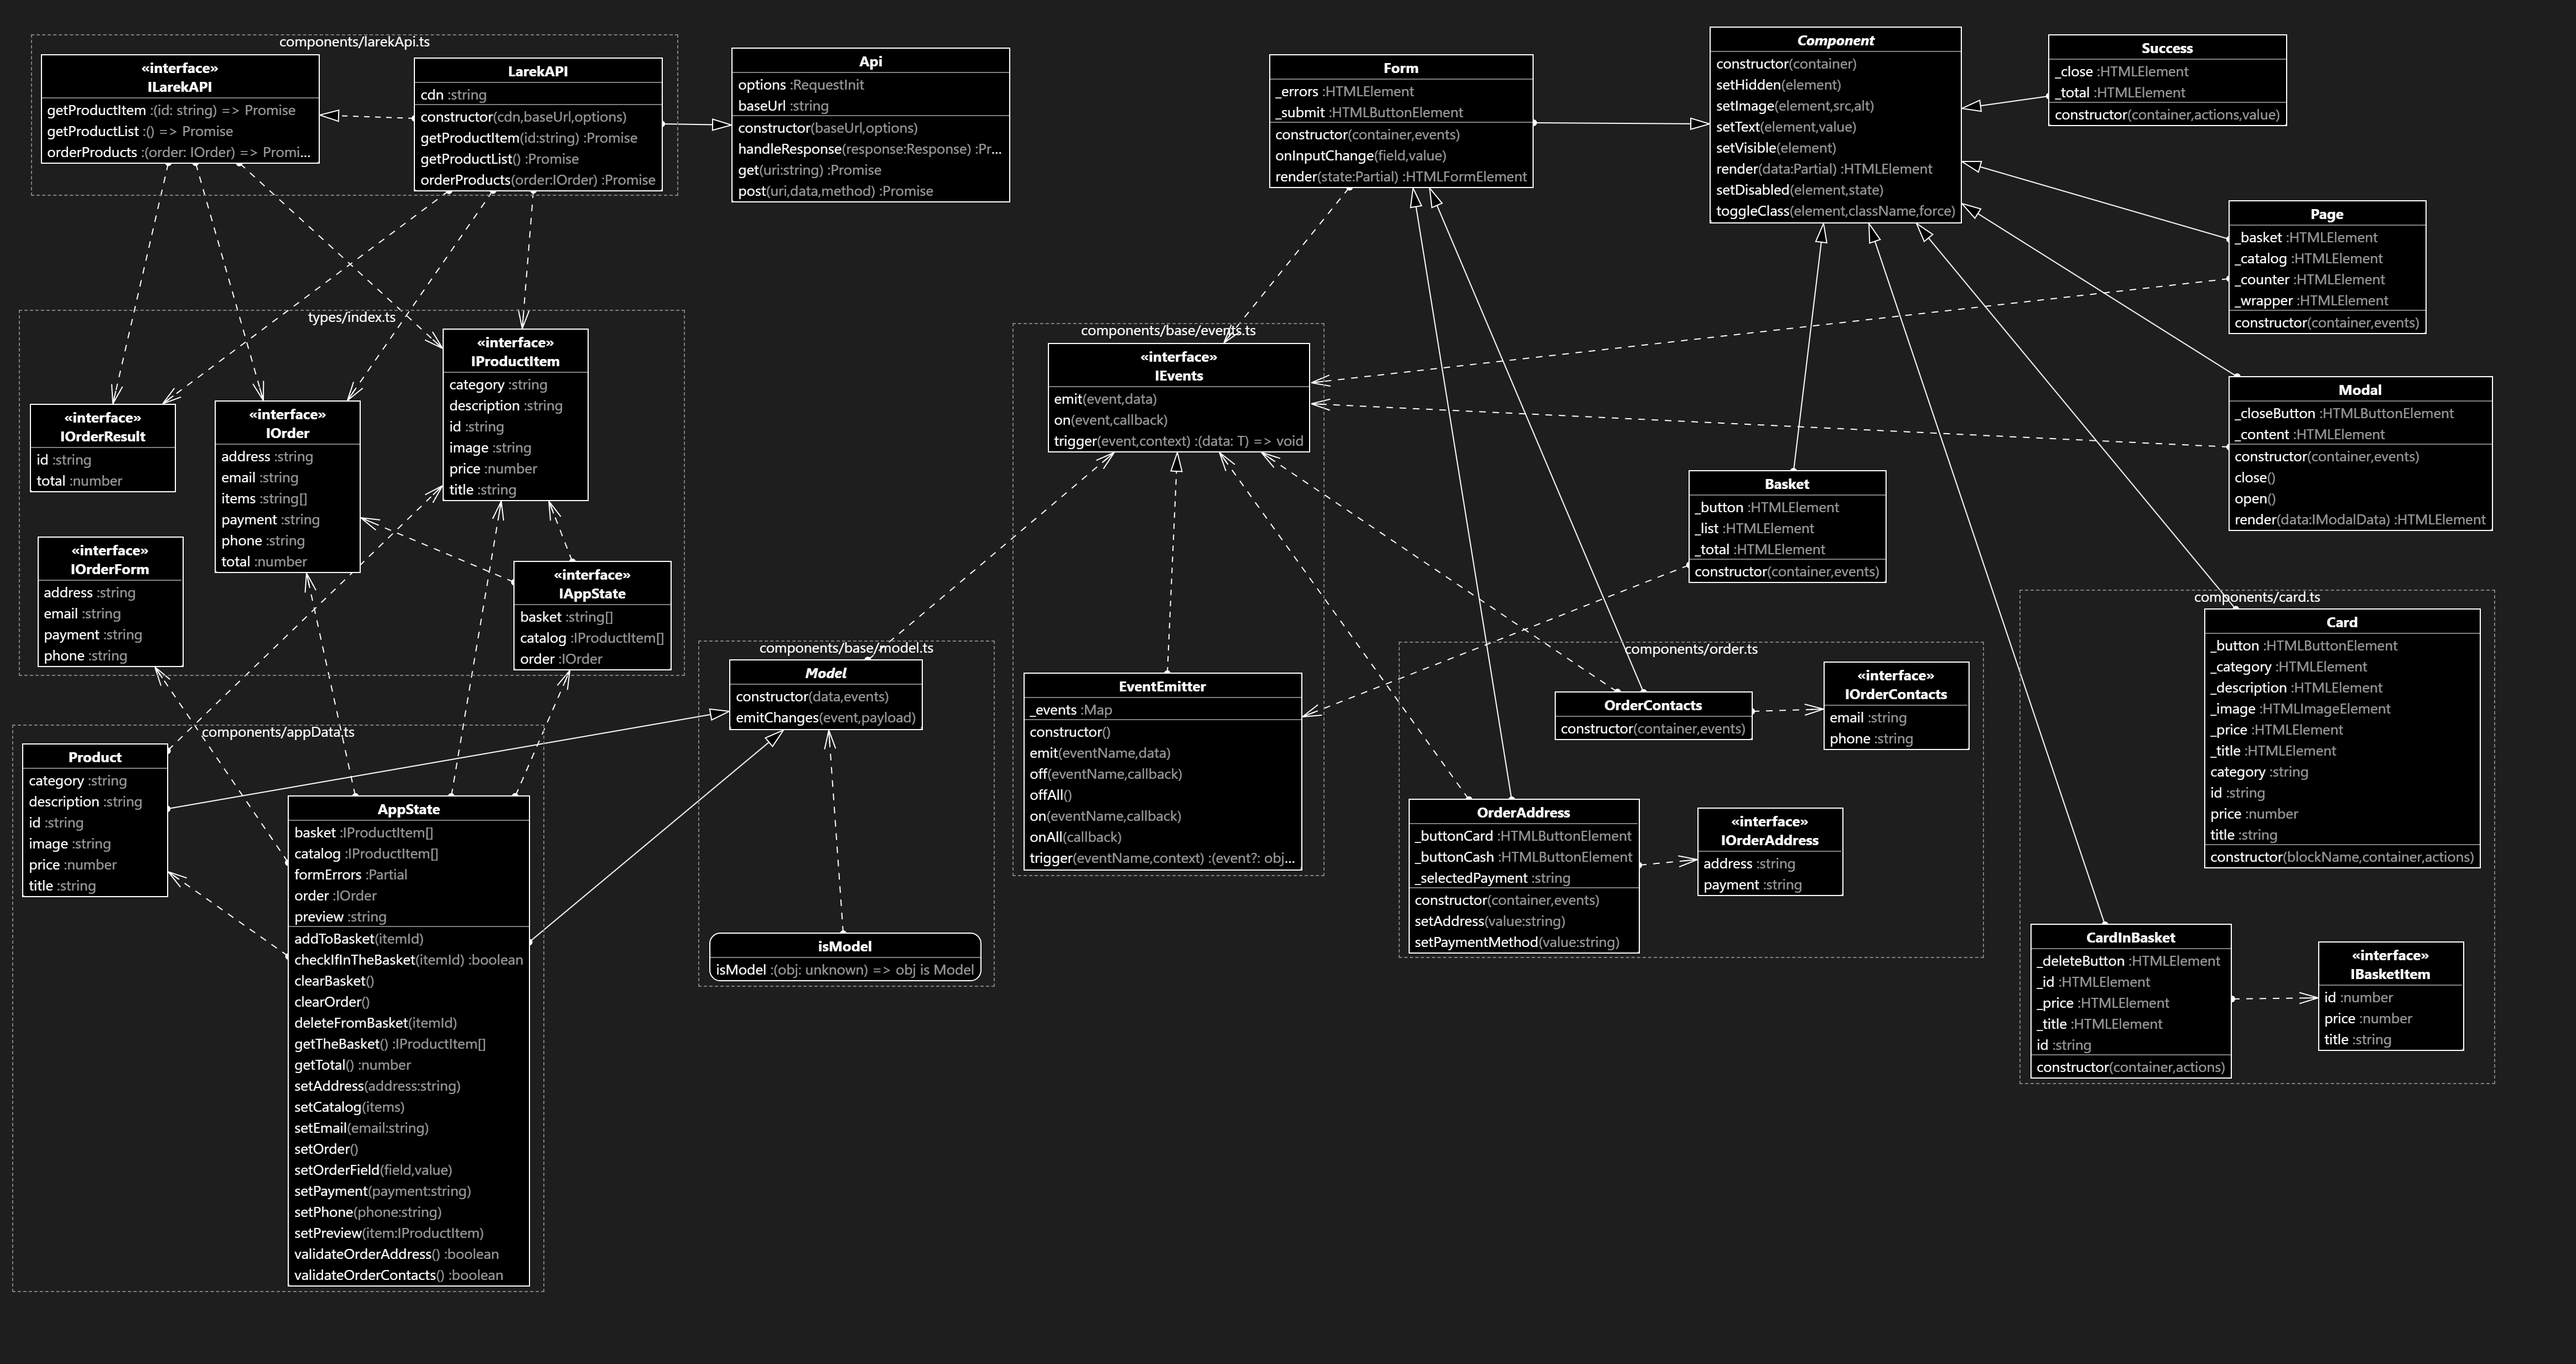
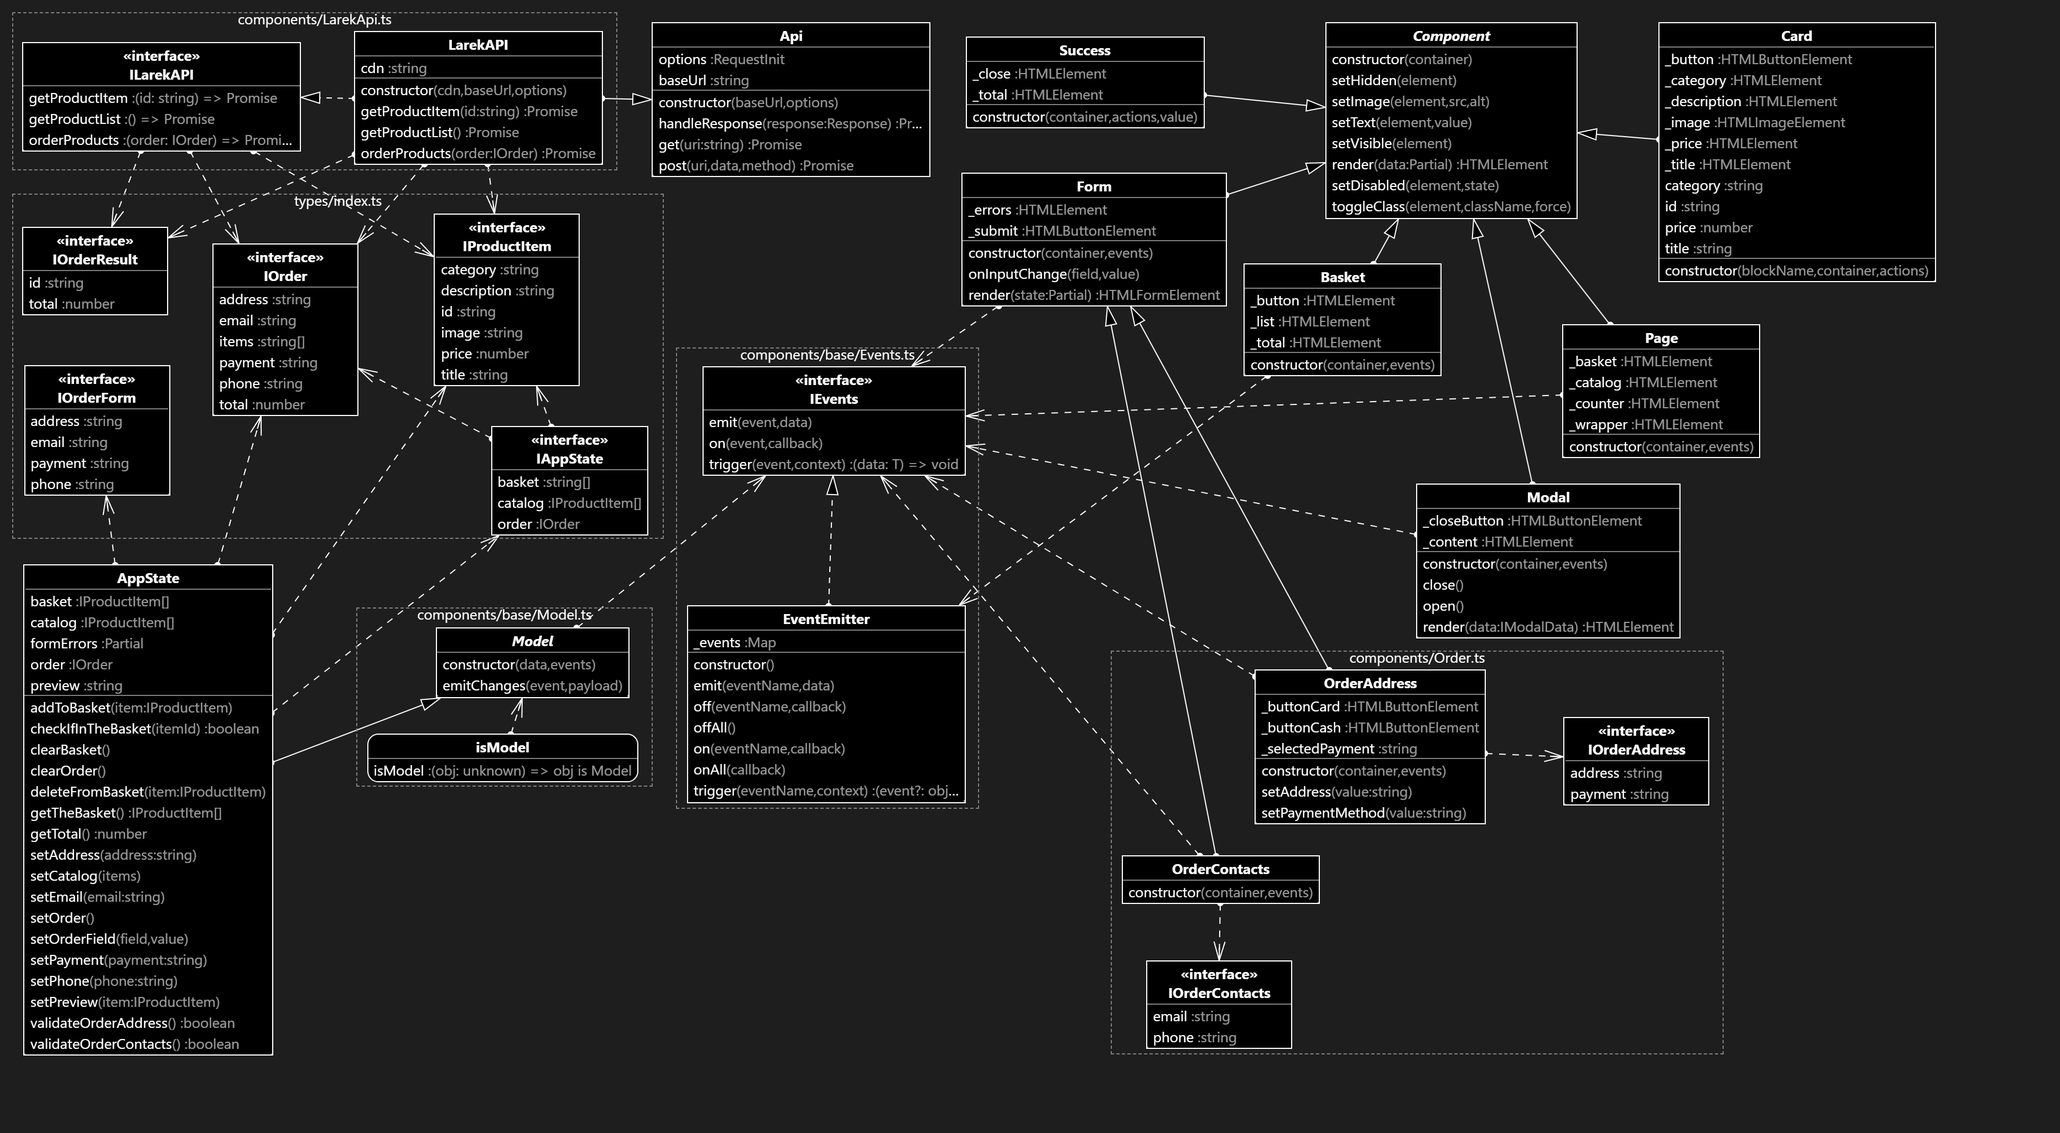
git cache cleared

diff --git a/src/index.ts b/src/index.ts
@@ -1,17 +1,17 @@
 import './scss/styles.scss';
 
 import { API_URL, CDN_URL } from "./utils/constants";
-import { EventEmitter } from "./components/base/events";
-import { AppState, CatalogChangeEvent, Product } from "./components/appData";
-import { Page } from "./components/page";
-import { Card, CardInBasket } from "./components/card";
+import { EventEmitter } from "./components/base/Events";
+import { AppState, CatalogChangeEvent } from "./components/AppData";
+import { Page } from "./components/Page";
+import { Card } from "./components/Card";
 import { cloneTemplate, ensureElement } from "./utils/utils";
-import { Modal } from "./components/common/modal";
-import { Basket } from "./components/common/basket";
-import { OrderContacts, OrderAddress } from "./components/order";
-import { Success } from "./components/common/success";
-import { LarekAPI } from "./components/larekApi";
-import { IOrderForm } from './types';
+import { Modal } from "./components/common/Modal";
+import { Basket } from "./components/Basket";
+import { OrderContacts, OrderAddress } from "./components/Order";
+import { Success } from "./components/Success";
+import { LarekAPI } from "./components/LarekApi";
+import { IOrderForm, IProductItem } from './types';
 
 const events = new EventEmitter();
 const api = new LarekAPI(CDN_URL, API_URL);
@@ -59,7 +59,7 @@ events.on<CatalogChangeEvent>('items:changed', () => {
 });
 
 // Открыть лот
-events.on('card:select', (item: Product) => {
+events.on('card:select', (item: IProductItem) => {
     console.log('карточка открыта');
     appData.setPreview(item);
 });
@@ -76,7 +76,7 @@ const changePageCounter = () => {
 }
 
 // Добавление в корзину
-events.on('basket:added', (item: Product) => {
+events.on('basket:added', (item: IProductItem) => {
     console.log('Item added to basket:', item);
     appData.addToBasket(item);
     changePageCounter();
@@ -84,7 +84,7 @@ events.on('basket:added', (item: Product) => {
 })
 
 // Удаление из корзины
-events.on('basket:deleted', (item: Product) => {
+events.on('basket:deleted', (item: IProductItem) => {
     console.log('Item deleted from basket:', item);
     appData.deleteFromBasket(item);
     events.emit('basket:changed');
@@ -99,7 +99,7 @@ events.on('basket:changed', () => {
     console.log(total);
 
     const cardsInBasket = basketItems.map((item, i) => {
-        const cardBasket = new CardInBasket(cloneTemplate(cardBasketTemplate), {
+        const cardBasket = new Card('card', cloneTemplate(cardBasketTemplate), {
             onClick: () => {
                 events.emit('basket:deleted', item);
                 console.log('card deleted');
@@ -107,7 +107,7 @@ events.on('basket:changed', () => {
         });
 
         return cardBasket.render({
-            id: i + 1,
+            id: String(i + 1),
             title: item.title,
             price: item.price,
         });
@@ -123,8 +123,8 @@ events.on('basket:changed', () => {
     });
 
 // Изменен открытый выбранный лот
-events.on('preview:changed', (item: Product) => {
-  const showItem = (item: Product) => {
+events.on('preview:changed', (item: IProductItem) => {
+  const showItem = (item: IProductItem) => {
       const card = new Card('card', cloneTemplate(cardPreviewTemplate), {
         onClick: () => {
             if (appData.checkIfInTheBasket(item)) {
@@ -152,18 +152,7 @@ events.on('preview:changed', (item: Product) => {
           });
       };
 
-  if (item) {
-      api.getProductItem(item.id)
-          .then((result) => {
-              item.description = result.description;
-              showItem(item);
-          })
-          .catch((err) => {
-              console.error(err);
-          })
-  } else {
-      modal.close();
-  }
+        showItem(item);
 });
 
 // Открыть форму заказа с адресом и оплатой
@@ -232,24 +221,24 @@ events.on('contacts:submit', () => {
     api.orderProducts(appData.order)
         .then(() => {
                     modal.close();
-                    appData.clearOrder();
                     events.emit('order:success');
+                    appData.clearBasket();
+                    appData.clearOrder();     
+                    changePageCounter();             
                 })
         .catch(err => {
             console.error(err);
-        });
+        }); 
 })
 
 // Заказ успешно отправлен
 events.on('order:success', () => {
+    console.log('вызвали саксесс');
     const success = new Success(cloneTemplate(successTemplate), {
         onClick: () => {
             modal.close();
-            appData.clearBasket();
-            changePageCounter();
             window.location.href = '/';
         }}, appData.getTotal());
-
         modal.render({
             content: success.render({})
         });

diff --git a/src/components/Card.ts b/src/components/Card.ts
@@ -1,4 +1,4 @@
-import { Component } from "./base/component";
+import { Component } from "./base/Component";
 import { IProductItem } from "../types";
 import { ensureElement } from "../utils/utils";
 
@@ -6,7 +6,7 @@ interface ICardActions {
     onClick: (event: MouseEvent) => void;
 }
 
-export type ICard<T> = IProductItem & { 
+export type ICard = IProductItem & { 
   title?: string;
   image?: string;
   button?: string;
@@ -22,7 +22,7 @@ const category: Record<string, string> = {
   'кнопка': '_button' 
 }
 
-export class Card<T> extends Component<ICard<T>> {
+export class Card extends Component<ICard> {
     protected _title: HTMLElement;
     protected _image?: HTMLImageElement;
     protected _description?: HTMLElement;
@@ -34,11 +34,32 @@ export class Card<T> extends Component<ICard<T>> {
         super(container);
 
         this._title = ensureElement<HTMLElement>(`.${blockName}__title`, container);
-        this._image = ensureElement<HTMLImageElement>(`.${blockName}__image`, container);
         this._button = container.querySelector(`.${blockName}__button`);
-        this._description = container.querySelector(`.${blockName}__text`);
         this._price = ensureElement<HTMLElement>(`.${blockName}__price`, container);
-        this._category = ensureElement<HTMLElement>(`.${blockName}__category`, container);
+
+        // Проверяем наличие изображения
+        const imageElement = container.querySelector(`.${blockName}__image`);
+        if (imageElement instanceof HTMLImageElement) {
+            this._image = imageElement;
+        } else {
+            this._image = null;
+        }
+
+         // Проверяем наличие описания
+        const descriptionElement = container.querySelector(`.${blockName}__text`);
+        if (descriptionElement instanceof HTMLElement) {
+            this._description = descriptionElement;
+        } else {
+            this._description = null; 
+        }
+
+        // Проверяем наличие категории
+        const categoryElement = container.querySelector(`.${blockName}__category`);
+        if (categoryElement instanceof HTMLElement) {
+            this._category = categoryElement;
+        } else {
+            this._category = null; 
+        }
 
         // если есть кнопка - ловим клик по кнопке, если кнопки нет - ловим по карточке 
         if (actions?.onClick) {
@@ -72,7 +93,7 @@ export class Card<T> extends Component<ICard<T>> {
     }
 
     set image(value: string) {
-      this.setImage(this._image, value, this.title)
+        this.setImage(this._image, value, this.title);
     }
 
     set description(value: string | string[]) {
@@ -105,47 +126,5 @@ export class Card<T> extends Component<ICard<T>> {
 
     get category(): string {
       return this._category.textContent || '';
-  }
-}
-
-export interface IBasketItem {
-  title: string;
-  price: number | null;
-  id: number;
-}
-
-export class CardInBasket extends Component<IBasketItem> {
-  protected _title: HTMLElement;
-  protected _price: HTMLElement;
-  protected _id: HTMLElement;
-  protected _deleteButton: HTMLElement;
-
-  constructor(container: HTMLElement, actions?: ICardActions) {
-      super(container);
-
-      this._title = ensureElement<HTMLElement>('.card__title', container);
-      this._price = ensureElement<HTMLElement>('.card__price', container);
-      this._id = ensureElement<HTMLElement>('.basket__item-index', container);
-      this._deleteButton = ensureElement<HTMLElement>('.basket__item-delete', container);
-
-      if (actions && actions.onClick) {
-          this._deleteButton.addEventListener('click', actions.onClick);
-      }
-  }
-
-  set title(value: string) {
-      this.setText(this._title, value);
-  }
-
-  set price(value: number) {
-      this.setText(this._price, `${value} синапсов`);
-  }
-
-  set id(value: string) {
-    this.setText(this._id, value);
-}
-
-  get id(): string {
-    return this._id.textContent || '';
   }
 }

diff --git a/src/components/AppData.ts b/src/components/AppData.ts
@@ -1,19 +1,10 @@
-import {Model} from "./base/model";
+import {Model} from "./base/Model";
 import {IProductItem, IOrder, IAppState, FormErrors, IOrderForm } from "../types";
 
 
 export type CatalogChangeEvent = {
     catalog: IProductItem[]
 };
-
-export class Product extends Model<IProductItem> {
-  id: string;
-  description: string;
-  image: string;
-  title: string;
-  category: string;
-  price: number | null;
-}
 
 export class AppState extends Model<IAppState> {
   catalog: IProductItem[];
@@ -29,13 +20,14 @@ export class AppState extends Model<IAppState> {
 };
   formErrors: FormErrors = {};
 
-  addToBasket(itemId: IProductItem): void {
-    if (!this.basket.includes(itemId)) {
-        this.basket.push(itemId);
-    }
-}
-  deleteFromBasket(itemId: IProductItem): void {
-    const index = this.basket.indexOf(itemId); 
+  addToBasket(item: IProductItem): void {
+    if (!this.basket.includes(item)) {
+        this.basket.push(item);
+    } 
+  }
+
+  deleteFromBasket(item: IProductItem): void {
+    const index = this.basket.indexOf(item); 
     if (index !== -1) {
         this.basket.splice(index, 1); 
     }
@@ -44,7 +36,6 @@ export class AppState extends Model<IAppState> {
   clearBasket(): void {
     this.basket = [];
     this.clearOrder();
-    this.emitChanges('basket:changed');
   }
 
   clearOrder(): void {
@@ -63,7 +54,8 @@ export class AppState extends Model<IAppState> {
   }
 
   setCatalog(items: IProductItem[]): void {
-    this.catalog = items.map(item => new Product(item, this.events));
+    // this.catalog = items.map(item => new Product(item, this.events));
+    this.catalog = items;
     this.events.emit('items:changed');
   }
 

diff --git a/src/components/Basket.ts b/src/components/Basket.ts
@@ -1,6 +1,6 @@
-import {Component} from "../base/component";
-import {createElement, ensureElement} from "../../utils/utils";
-import {EventEmitter} from "../base/events";
+import {Component} from "./base/Component";
+import {createElement, ensureElement} from "../utils/utils";
+import {EventEmitter} from "./base/Events";
 
 interface IBasketView {
     items: HTMLElement[];

diff --git a/src/components/common/Modal.ts b/src/components/common/Modal.ts
@@ -1,6 +1,6 @@
-import { Component } from "../base/component";
+import { Component } from "../base/Component";
 import { ensureElement } from "../../utils/utils";
-import { IEvents } from "../base/events";
+import { IEvents } from "../base/Events";
 
 interface IModalData {
     content: HTMLElement;

diff --git a/src/components/common/Form.ts b/src/components/common/Form.ts
@@ -1,5 +1,5 @@
-import { Component } from "../base/component";
-import {IEvents} from "../base/events";
+import { Component } from "../base/Component";
+import {IEvents} from "../base/Events";
 import {ensureElement} from "../../utils/utils";
 
 interface IFormState {

diff --git a/src/components/Page.ts b/src/components/Page.ts
@@ -1,5 +1,5 @@
-import {Component} from "./base/component";
-import {IEvents} from "./base/events";
+import {Component} from "./base/Component";
+import {IEvents} from "./base/Events";
 import {ensureElement} from "../utils/utils";
 
 interface IPage { 

diff --git a/src/components/Success.ts b/src/components/Success.ts
@@ -1,5 +1,5 @@
-import { Component } from "../base/component";
-import {ensureElement} from "../../utils/utils";
+import { Component } from "./base/Component";
+import {ensureElement} from "../utils/utils";
 
 interface ISuccess {
     total: number;

diff --git a/src/components/Order.ts b/src/components/Order.ts
@@ -1,5 +1,5 @@
-import { Form } from "./common/form";
-import {IEvents} from "./base/events";
+import { Form } from "./common/Form";
+import {IEvents} from "./base/Events";
 
 export interface IOrderContacts {
   phone: string;

diff --git a/src/components/LarekApi.ts b/src/components/LarekApi.ts
@@ -1,4 +1,4 @@
-import { Api, ApiListResponse } from './base/api';
+import { Api, ApiListResponse } from './base/Api';
 import { IProductItem, IOrderResult, IOrder  } from "../types";
 
 export interface ILarekAPI {

diff --git a/src/components/base/Model.ts b/src/components/base/Model.ts
@@ -1,4 +1,4 @@
-import {IEvents} from "./events";
+import {IEvents} from "./Events";
 
 // проверка на модель
 export const isModel = (obj: unknown): obj is Model<any> => {
